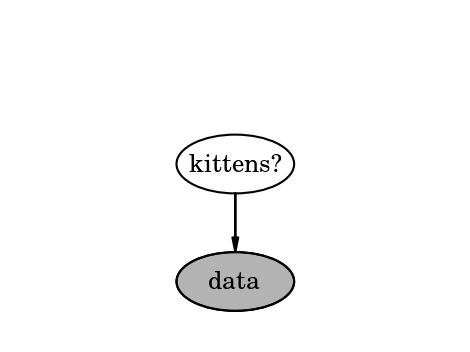
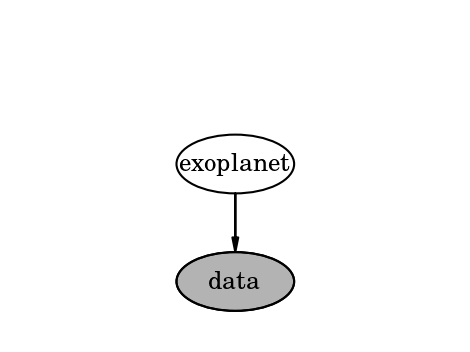
figures

Changed region(s): [[0.3872, 0.4375, 0.6255, 0.5]]

diff --git a/presentations/hogg_dsi_2015-09-10.tex b/presentations/hogg_dsi_2015-09-10.tex
@@ -12,7 +12,7 @@
 % import the next thing *after* the papersize
 \input{./hogg_presentation} % hogg standard colors
 
-\title{Flexible models for noise, variability, and systematics}
+\title{Data Science Methodologies for the Discovery of Extra-solar Planets}
 \author[David W. Hogg (NYU)]{David W. Hogg
   \textsl{\footnotesize(NYU \& MPIA \& SCDA)}\\
   \texttt{@davidwhogg}\\[1ex]
@@ -28,17 +28,9 @@
   \frametitle{summary}
   \begin{itemize}
   \item exoplanet research is shaped by engineering and data analysis challenges
-    \begin{itemize}
-    \item I focus on these issues
-    \end{itemize}
-  \item \emph{search} involves extracting tiny, sparse signals from (huge) data sets
+  \item the search for planets involves extracting tiny, sparse signals from (huge) data sets
     \begin{itemize}
     \item noise modeling and marginalization of systematics
-    \end{itemize}
-  \item \emph{characterization} leaves us with noisy individual-planet measurements
-  \item \emph{population inferences} require expensive noise propagation
-    \begin{itemize}
-    \item hierarchical probabilistic inference
     \end{itemize}
   \item Earth-like planets are plentiful in our Galaxy
     \begin{itemize}
@@ -108,14 +100,6 @@
 \end{frame}
 
 \begin{frame}
-  \frametitle{causal structure}
-  ~\hfill
-  \includegraphics<1>[height=\figureheight]{../code/onecause.png}
-  \includegraphics<2>[height=\figureheight]{../code/threecauses.png}
-  \includegraphics<3>[height=\figureheight]{../code/morecauses.png}
-\end{frame}
-
-\begin{frame}
   \frametitle{noise models}
   \begin{itemize}
   \item precision astrophysics is all about noise
@@ -123,17 +107,28 @@
     \begin{itemize}
     \item models of the Sun do not predict variability in detail
     \item we use data-driven models (non-parametrics)
-    \item auto-regressive models, Gaussian Processes
     \end{itemize}
   \item spacecraft issues
     \begin{itemize}
     \item telescope pointing is not precise (especially for K2)
-    \item point-spread function and flat-field not known to sufficient precision
-    \item temperature changes
     \item we make use of shared information across all stars
     \end{itemize}
-  \item all of these noise sources are \emph{larger than the signals we care about}
+  \item both of these noise sources are \emph{larger than the signals we care about}
   \end{itemize}
+\end{frame}
+
+\begin{frame}
+  \frametitle{raw K2 light curve {\footnotesize (Foreman-Mackey \etal, arXiv:1502.04715)}}
+  ~\hfill
+  \includegraphics<1>[trim=100 100 100 100, clip, height=\figureheight]{brownbag/brownbagp10.pdf}
+\end{frame}
+
+\begin{frame}
+  \frametitle{causal structure}
+  ~\hfill
+  \includegraphics<1>[height=\figureheight]{../code/onecause.png}
+  \includegraphics<2>[height=\figureheight]{../code/threecauses.png}
+  \includegraphics<3>[height=\figureheight]{../code/morecauses.png}
 \end{frame}
 
 \begin{frame}
@@ -144,6 +139,28 @@
     the spacecraft
   \item using these ideas to separate spacecraft-induced from
     intrinsic stellar variability (Wang \etal, in preparation)
+  \end{itemize}
+\end{frame}
+
+\begin{frame}
+  \frametitle{Data-driven idea}
+  \begin{itemize}
+  \item The best predictors of a star (or pixel's) behavior are the
+    empirical behaviors of \emph{other stars} (or pixels).
+  \item The data \emph{are} the model.
+  \end{itemize}
+\end{frame}
+
+\begin{frame}
+  \frametitle{Data-driven idea}
+  \begin{itemize}
+  \item Imagine that spacecraft pointing is the source of your
+    dominant systematic.
+  \item Imagine that you have light curves that are good to a part in
+    $10^5$, every one of which depends differently on pointing.
+  \item The light curves themselves contain the pointing information
+    at very high fidelity.
+  \item (Much higher fidelity than any direct s/c orientation measurements!)
   \end{itemize}
 \end{frame}
 
@@ -171,11 +188,36 @@
     \item fully marginalize out the noise draw
     \end{itemize}
   \item clever applied mathematics
+  \end{itemize}
+\end{frame}
+
+\begin{frame}
+  \frametitle{reminder: $\chi^2$}
+  \begin{itemize}
+  \item $\chi^2$ is related to the ln of a (Gaussian) likelihood.
+  \item It can be written as an inner product (with the noise inverse
+    covariance as metric).
+  \end{itemize}
+\end{frame}
+
+\begin{frame}
+  \frametitle{marginalizing out noise}
+  \begin{itemize}
+  \item $\displaystyle\chi^2\equiv\sum_n\frac{[y_n - \mu_n]^2}{\sigma_n^2}$
+  \item $\displaystyle\chi^2\equiv\transpose{[y - \mu]}\cdot C^{-1}\cdot[y - \mu]$
+  \item $\displaystyle C = \diag(\sigma^2)$
+  \end{itemize}
+\end{frame}
+
+\begin{frame}
+  \frametitle{marginalizing out noise}
+  \begin{itemize}
+  \item $\displaystyle\chi^2\equiv\transpose{[y - \mu]}\cdot C^{-1}\cdot[y - \mu]$
+  \item $\displaystyle C = \diag(\sigma^2) + B\cdot\Lambda\cdot\transpose{B}$
     \begin{itemize}
-    \item very fast linear algebra for Gaussian Processes
-    \item Ambikasaran \etal, arXiv:1403.6015
-    \item approximations that permit re-use of repeated calculation
-    \item exploit embarassing parallelization
+    \item $B$ contains the $M=150$ (say) basis vectors
+    \item either $\Lambda\rightarrow\infty$ (permitted!) or choose $\Lambda$ sensibly
+    \item marginalizes out anything in the $B$ subspace
     \end{itemize}
   \end{itemize}
 \end{frame}
@@ -184,20 +226,20 @@
   \frametitle{marginalizing out noise}
   \begin{itemize}
   \item $\displaystyle\chi^2\equiv\transpose{[y - \mu]}\cdot C^{-1}\cdot[y - \mu]$
-  \item $\displaystyle C = \diag(\sigma^2)$
-  \item<2-> $\displaystyle C = \diag(\sigma^2) + B\cdot\Lambda\cdot\transpose{B}$
-    \begin{itemize}
-    \item $B$ contains the $M=150$ (say) basis vectors
-    \item either $\Lambda\rightarrow\infty$ (permitted!) or choose $\Lambda$ sensibly
-    \item marginalizes (projects) out anything in the $B$ subspace
-    \end{itemize}
-  \item<3-> $\displaystyle C = \diag(\sigma^2) + B\cdot\Lambda\cdot\transpose{B} + K$
+  \item $\displaystyle C = \diag(\sigma^2) + B\cdot\Lambda\cdot\transpose{B} + K$
     \begin{itemize}
     \item $\displaystyle K_{nn'} = k(|t_{n} - t_{n'}|)$
     \item for example, $\displaystyle K_{nn'} = a\,\exp -\frac{1}{2}\,\frac{[t_{n} - t_{n'}]^2}{\tau^2}$
     \item marginalizes out smooth, nonlinear functions of time (a Gaussian Process)
     \end{itemize}
-  \item<4-> These methods marginalize out (Gaussian) non-trivial noise models.
+  \end{itemize}
+\end{frame}
+
+\begin{frame}
+  \frametitle{marginalizing out noise}
+  \begin{itemize}
+  \item $\displaystyle\chi^2\equiv\transpose{[y - \mu]}\cdot C^{-1}\cdot[y - \mu]$
+  \item These methods marginalize out (Gaussian) non-trivial noise models.
     \begin{itemize}
     \item equivalent to integrating over all noise draws consistent with the data
     \item there are more extreme models that permit nonlinear functions of the $B$ vectors
@@ -231,7 +273,13 @@
     \item need a model for all sources (instrumental and astrophysical) of false positive signals
     \item the most interesting objects are nearly impossible to follow up
     \end{itemize}
-  \item<3-> \emph{secret fact:}
+  \end{itemize}
+\end{frame}
+
+\begin{frame}
+  \frametitle{false positives and false negatives}
+  \begin{itemize}
+  \item \emph{secret fact:}
     it looks like many of the most interesting exoplanet candidates may be false positives
     \begin{itemize}
     \item long periods, small radii
@@ -258,69 +306,6 @@
 \end{frame}
 
 \begin{frame}
-  \frametitle{how do you use noisy measurements?}
-  \begin{itemize}
-  \item exoplanetary astronomers tend to think Bayesian
-    \begin{itemize}
-    \item provide posterior information about exoplanet properties
-    \end{itemize}
-  \item we want to know about the \emph{population} of exoplanets
-    \begin{itemize}
-    \item exoplanets are ``samples'' from this population
-    \item observations are distorted by samples from the noise process
-    \end{itemize}
-  \item usually think in terms of generative probabilistic model
-    \begin{itemize}
-    \item population parameters characterize the population model
-    \item population model generates exoplanet parameters
-    \item exoplanet parameters characterize one exoplanetary system model
-    \item exoplanetary system model (and noise model) generates the raw data
-    \end{itemize}
-  \item want to make \emph{noise-marginalized population inferences}
-  \end{itemize}
-\end{frame}
-
-\begin{frame}
-  \frametitle{hierarchical probabilistic modeling}
-  \begin{itemize}
-  \item if an observer gives us posterior information, it includes some \emph{prior}
-  \item our population model is a \emph{replacement} for that prior
-    \begin{itemize}
-    \item so we want likelihood functions, not posterior samples
-    \item (likelihood \emph{functions} not maximum-likelihood parameters)
-    \end{itemize}
-  \item more applied math: importance sampling tricks
-    \begin{itemize}
-    \item can re-weight posterior samples to use them like likelihood information
-    \end{itemize}
-  \item the full model contains a lot of complicated detail
-    \begin{itemize}
-    \item very flexible populations model with smoothness prior
-    \item bespoke elliptical slice sampling method for inference
-    \item original \kepler\ Mission data but independent Petigura \etal\ catalog and false-negative estimates
-    \end{itemize}
-  \end{itemize}
-\end{frame}
-
-\begin{frame}
-  \frametitle{importance sampling}
-  \begin{itemize}
-  \item you can only combine observations of different exoplanets if you have \emph{likeihoods}
-  \item in reality you will have \emph{posteriors}
-    \begin{itemize}
-    \item for both bad reasons (laziness) good reasons (use of data-driven models)
-    \item tend to be made with a crazy prior $I_0$
-    \end{itemize}
-  \item replace the crazy prior $I_0$ with a population model $\alpha$ by
-    \begin{eqnarray}
-      p(y\given \alpha) &=& \frac{1}{Z}\,\int \frac{p(\theta\given y,\alpha)}{p(\theta\given y,I_0)}\,p(\theta\given y,I_0)\,\dd\theta
-      \\
-      &\approx& \frac{1}{Z}\sum_k \frac{p(\theta_k\given y,\alpha)}{p(\theta_k\given y,I_0)}
-    \end{eqnarray}
-  \end{itemize}
-\end{frame}
-
-\begin{frame}
   \frametitle{Exoplanet populations {\footnotesize (Foreman-Mackey \etal, arXiv:1406.3020)}}
   ~\hfill
   \includegraphics<1>[height=\figureheight]{1406.3020/results-results.pdf}
@@ -336,26 +321,6 @@
 \end{document}
 
 %%% OLD STUFF
-
-\begin{frame}
-  \frametitle{RV?}
-  \begin{itemize}
-  \item I am going to talk about \kepler.
-  \item I hope the parallels to RV work are clear.
-  \item Don't be shy about asking.
-  \end{itemize}
-\end{frame}
-
-\begin{frame}
-  \frametitle{reminder: $\chi^2$}
-  \begin{itemize}
-  \item $\chi^2$ is related to the ln of a (Gaussian) likelihood.
-  \item It can be written as an inner product (with the noise inverse
-    covariance as metric).
-  \item If we are going to play with the noise (and we are), we must
-    include a $\ln(\det)$ term.
-  \end{itemize}
-\end{frame}
 
 \begin{frame}
   \frametitle{reminder: $\chi^2$}
@@ -407,41 +372,6 @@
     \nonumber
   \end{eqnarray}
 \end{frame}
-
-\begin{frame}
-  \frametitle{Causal idea}
-  \begin{itemize}
-  \item If a star's behavior can be predicted confidently by
-    other stars, then that behavior must be being imprinted by
-    the spacecraft.
-  \item We are using these ideas to separate spacecraft-induced from
-    intrinsic stellar variability {\footnotesize (Wang \etal, in prep;
-    Sch\"olkopf \etal, 1505.03036)}.
-  \end{itemize}
-\end{frame}
-
-\begin{frame}
-  \frametitle{Data-driven idea}
-  \begin{itemize}
-  \item The best predictors of a star (or pixel's) behavior are the
-    empirical behaviors of \emph{other stars} (or pixels).
-  \item The data \emph{are} the model.
-  \end{itemize}
-\end{frame}
-
-\begin{frame}
-  \frametitle{Data-driven idea}
-  \begin{itemize}
-  \item Imagine that spacecraft pointing is the source of your
-    dominant systematic.
-  \item Imagine that you have light curves that are good to a part in
-    $10^5$, every one of which depends differently on pointing.
-  \item The light curves themselves contain the pointing information
-    at very high fidelity.
-  \item (Much higher fidelity than any measured centroids!)
-  \end{itemize}
-\end{frame}
-
 \begin{frame}
   \frametitle{Systematic noise model}
   \begin{itemize}

diff --git a/code/exopgm.py b/code/exopgm.py
@@ -7,22 +7,28 @@ import daft
 foo = [4., 3.]
 origin = [1., 0.4]
 pgm = daft.PGM(foo, origin=origin)
-pgm.add_node(daft.Node("exoplanet", r"exoplanet", 1.8, 2, aspect=2.0))
-pgm.add_node(daft.Node("star", r"star", 3, 2, aspect=2.0))
-pgm.add_node(daft.Node("camera", r"camera", 4.2, 2, aspect=2.0))
+pgm.add_node(daft.Node("exoplanet", r"exoplanet", 3, 2, aspect=2.0))
 pgm.add_node(daft.Node("data", r"data", 3, 1, aspect=2.0, observed=True))
 pgm.add_edge("exoplanet", "data")
+pgm.render()
+pgm.figure.savefig("onecause.pdf")
+pgm.figure.savefig("onecause.png", dpi=150)
+
+pgm.add_node(daft.Node("star", r"star", 1.8, 2, aspect=2.0))
+pgm.add_node(daft.Node("camera", r"camera", 4.2, 2, aspect=2.0))
 pgm.add_edge("star", "data")
 pgm.add_edge("camera", "data")
 pgm.render()
 pgm.figure.savefig("threecauses.pdf")
 pgm.figure.savefig("threecauses.png", dpi=150)
 
-pgm.add_node(daft.Node("exopop", r"exopop", 1.8, 3, aspect=2.0))
-pgm.add_node(daft.Node("starpop", r"starpop", 3, 3, aspect=2.0))
+pgm.add_node(daft.Node("exopop", r"exopop", 3, 3, aspect=2.0))
+pgm.add_node(daft.Node("starpop", r"starpop", 1.8, 3, aspect=2.0))
+pgm.add_node(daft.Node("spacecraft", r"s/c", 4.2, 3, aspect=2.0))
 pgm.add_edge("exopop", "exoplanet")
 pgm.add_edge("starpop", "star")
 pgm.add_edge("star", "exoplanet")
+pgm.add_edge("spacecraft", "camera")
 pgm.add_plate(daft.Plate([1.2, 0.5, 3.6, 2.], label=r"light curves"))
 pgm.render()
 pgm.figure.savefig("morecauses.pdf")
@@ -33,5 +39,5 @@ pgm2.add_node(daft.Node("kittens", r"kittens?", 3, 2, aspect=2.0))
 pgm2.add_node(daft.Node("data", r"data", 3, 1, aspect=2.0, observed=True))
 pgm2.add_edge("kittens", "data")
 pgm2.render()
-pgm2.figure.savefig("onecause.pdf")
-pgm2.figure.savefig("onecause.png", dpi=150)
+pgm2.figure.savefig("onecause2.pdf")
+pgm2.figure.savefig("onecause2.png", dpi=150)
